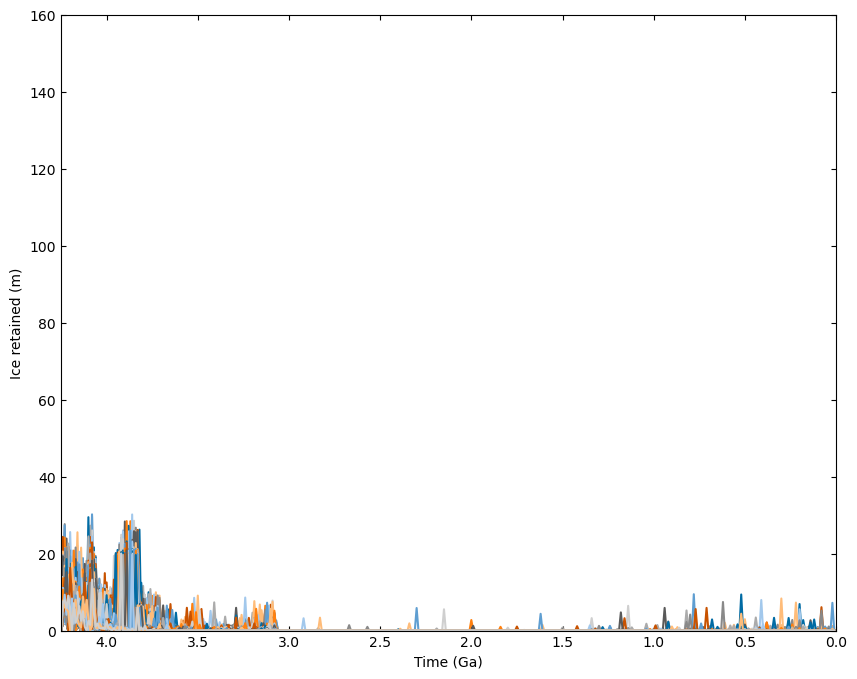
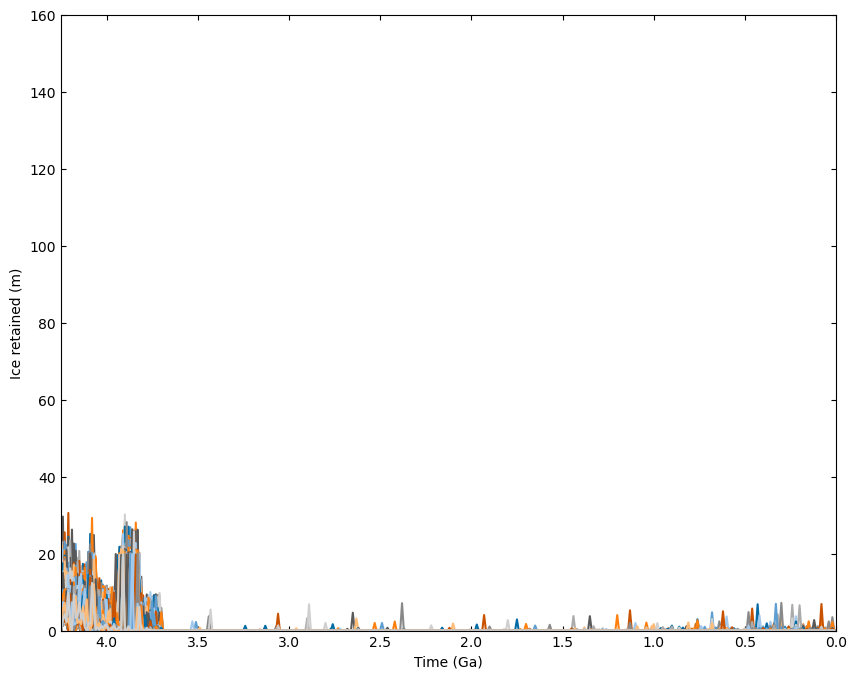
Fix volcanic ice NK mode

Changed region(s): [[0.0607, 0.7423, 0.6371, 0.9278], [0.6674, 0.866, 1.0, 0.9278]]

diff --git a/other_modules/ballistic_sed_depth_v3.py b/other_modules/ballistic_sed_depth_v3.py
@@ -1,0 +1,229 @@
+import numpy as np
+
+G_MOON = 1.624  # [m s^-2]
+# G_MOON = 9.8
+R_MOON = 1737 * 1e3  # [m]
+# R_MOON = 6356 * 1e3
+M = 1.96 # ± 0.15
+C = 0.022
+E = 0.00 # ± 0.09
+N = -0.14 # ± 0.03
+
+
+def m2km(x):
+    '''
+    It converts m to km. 
+    '''
+    return x/1000
+
+def sec_final_diam(d, range, M=1.96, C=0.022, E=0.00, N=-0.14):
+    '''
+    Returns secondary crater diameter given diameter of the primary crater and range away from the crater center. This function uses the generalized equation from Singer et al. 2020
+
+    Parameters
+    ----------
+    d (num or array): diameter of primary crater [m]
+    range (num or array): distance away from primary crater center[m]
+
+    Returns
+    -------
+    sec_final_diam [m]: final secondary crater diameter
+    
+    '''
+
+    d = m2km(d)
+    range = m2km(range)
+
+    a = C * (d**M)
+    b = E - (np.log(d) * N)
+    return ((a * (range**-b)) * 1000)
+
+def sec_final_diam_copern(range, d, d_copern=93000, M = 1.96, a = 1.2e2, b = -.68):
+    '''
+    Returns secondary crater diameter given diameter of the primary crater and range away from the crater center. This function uses the Copernius derived equation from Singer et al. 2020
+    The equation is then scaled by the primary crater. 
+
+    Parameters
+    ----------
+    d (num or array): diameter of primary crater [m]
+    range (num or array): distance away from primary crater center[m]
+
+    Returns
+    -------
+    sec_final_diam [m]: final secondary crater diameter
+    
+    '''
+    range = m2km(range)
+    d = m2km(d)
+    d_copern = m2km(d_copern)
+    return ((a * (d/d_copern)**M * (range**(b*(-np.log(d/d_copern))))) * 1000)
+
+def final2transient(diams, g=G_MOON, ds2c=18e3, gamma=1.25, eta=0.13):
+    """
+    Return transient crater diameters from final crater diams (Melosh 1989).
+
+    Parameters
+    ----------
+    diams (num or array): final crater diameters [m]
+    g (num): gravitational force of the target body [m s^-2]
+    rho_t (num): target density (kg m^-3)
+
+    Returns
+    -------
+    transient_diams (num or array): transient crater diameters [m]
+    """
+    # Scale simple to complex diameter (only if target is not Moon)
+    # ds2c = simple2complex_diam(g)  # [m]
+    diams = np.atleast_1d(diams)
+    # diams < simple2complex == diam/gamma, else use complex scaling
+    t_diams = np.copy(diams) / gamma
+    t_diams[diams > ds2c] = (1 / gamma) * (
+        diams[diams > ds2c] * ds2c ** eta
+    ) ** (1 / (1 + eta))
+    return t_diams
+
+def ballistic_spherical(theta, d, g=G_MOON, rp=R_MOON):
+    """
+    Return ballistic speed (v) given ballistic range (d) and gravity of planet (g).
+    Assumes perfectly spherical planet (Vickery, 1986).
+    
+    Parameters
+    ----------
+    d (num or array): ballistic range [m]
+    g (num): gravitational force of the target body [m s^-2]
+    theta (num): angle of impact [radians]
+    rp (num): radius of the target body [m]
+    
+    Returns
+    ------_
+    v (num or array): ballistic speed [m s^-1]   
+ 
+    """
+    tan_phi = np.tan(d / (2 * rp))
+    return np.sqrt((g * rp * tan_phi) / ((np.sin(theta) * np.cos(theta)) + (np.cos(theta)**2 * tan_phi)))
+
+
+
+def excav_depth(R_at, v):
+    '''
+    Returns the excavation depth of a secondary crater
+
+    Parameters
+    ----------
+    R_at (num): secondary transient apparent crater radius [m]
+    v (num): incoming impactor velocity [m/s]
+
+    Returns
+    -------
+    excav_depth (num): Excavation depth of a secondary crater [m]
+    '''
+    return .0134 * R_at * (v**0.38)
+
+def excav_depth_eff(R_at, r, d_ex, C_ex = 3.5):
+    '''
+    Returns the effective excavation depth of a secondary crater at radius r away from center of secondary crater
+
+    Parameters
+    ----------
+    R_at (num): secondary transient apparent crater radius [m]
+    r (num): Distance from secondary crater center [m]
+
+    Returns
+    -------
+    excav_depth (num): Effective excavation depth of a secondary crater [m]????
+    '''
+    if r <= R_at:
+        return C_ex * d_ex * (1 - (r/R_at)**2)
+    else:
+        # Raise some error here
+        return None 
+
+def ballistic_sed_depth(d, range, theta, N_E_bound = 'std', b_val = 'std' ):
+    '''
+    Returns the excavation depth of secondary craters being ballistically scoured 
+
+    Parameters
+    ----------
+    d (num or array): diameter of primary crater [m]
+    range (num or array): distance away from primary crater center [m]
+    theta (num): angle of impact [radians]
+
+    '''
+    # Choose which value within distribution to be used based on error bars. 
+    if N_E_bound == 'low_N_high_E_bound':
+        N = -0.17
+        E = 0.09
+    elif N_E_bound == 'high_N_low_E_bound':
+        N = -0.11
+        E = -0.09
+    elif N_E_bound == 'std':
+        N = -0.14 
+        E = 0.00 
+
+    if b_val == 'std':
+        b = -.68
+    elif b_val == 'low':
+        b = -.74
+    elif b_val =='high':
+        b = -.62
+
+
+    # Calcualte final secondary crater diameter:
+
+    # d_sec_final = sec_final_diam(d, range, N=N, E=E)
+    d_sec_final = sec_final_diam_copern(range, d, b=b)
+
+    # Convert final diameter to transient
+    d_sec_trans = final2transient(d_sec_final)
+
+
+    v = ballistic_spherical(np.deg2rad(theta), range)
+
+    d_ex = excav_depth(d_sec_trans/2,v)
+
+    d_eff = excav_depth_eff(d_sec_trans/2, 0, d_ex) 
+
+    # Multiply secondary transient crater diameter by .14 (Diameter/depth ratio from Singer et al. 2020)
+    # return d_sec_trans * .14
+    return d_eff
+
+
+
+# Plotting 
+excav_depths = []
+excav_depths2 = []
+excav_depths3 = []
+
+copern_diam = 93000 
+final_crater_diam = 26000 # [m]
+# final_crater_diam = 50000
+# final_crater_diam = 93000 # Orientale final diameter
+x = np.arange((final_crater_diam/2/1000),60)
+for i in x:
+    excav_depths.append(ballistic_sed_depth(final_crater_diam, i*1000, 45))
+    excav_depths2.append(ballistic_sed_depth(final_crater_diam, i*1000, 45, 'low_N_high_E_bound', 'low'))
+    excav_depths3.append(ballistic_sed_depth(final_crater_diam, i*1000, 45, 'high_N_low_E_bound', 'high'))
+
+# print(excav_depths)
+
+import matplotlib.pyplot as plt
+
+
+fig,ax = plt.subplots()
+ax.plot(x, excav_depths, label='Depth curve (based off data from Singer et al. 2020)')
+ax.plot(x, excav_depths2,'k--', label='Error bounds')
+ax.plot(x, excav_depths3,'k--')
+
+ax.set_xlabel('Distance from crater center [km]')
+ax.set_ylabel('Excavation depth [m]')
+ax.set_title('Excavation depth of secondary craters with distance from crater center\nPrimary crater diameter = 26 km')
+bunte_points_x = [28.5, 25.5, 23, 19, 16.5, 27, 36.5, 35, 32, 32, 27]
+bunte_points_y = [15, 52, 76, 34, 80, 47, 17, 28, 7, 21, 84]
+
+
+ax.plot(bunte_points_x, bunte_points_y, 'ro', label='Bunte Breccia depths [m]')
+
+ax.legend()
+plt.show()
+
+# ballistic_sed_depth(final_crater_diam, i*1000, 45)

diff --git a/moonpies/moonpies.py b/moonpies/moonpies.py
@@ -156,6 +156,7 @@ def read_volcanic_species(volcanic_csv, columns, species):
     df = df[["time", species]]
     df["time"] = df["time"] * 1e9  # [Gyr -> yr]
     df[species] = df[species] * 1e-3  # [g -> kg]
+    df = df.sort_values('time', ascending=False).reset_index(drop=True)
     return df
 
 
@@ -373,7 +374,12 @@ def get_volcanic_ice(time_arr, cfg):
     """
     if cfg.volc_mode == "NK":
         out = volcanic_ice_nk(
-            time_arr, cfg.volc_csv_in, cfg.volc_cols, cfg.volc_species
+            time_arr, 
+            cfg.timestep, 
+            cfg.volc_csv_in, 
+            cfg.volc_cols, 
+            cfg.volc_species,
+            cfg.dtype,
         )
     elif cfg.volc_mode == "Head":
         out = volcanic_ice_head(
@@ -391,25 +397,28 @@ def get_volcanic_ice(time_arr, cfg):
     else:
         raise ValueError(f"Invalid mode {cfg.mode}.")
     return out
+    
 
-
-def volcanic_ice_nk(time_arr, volc_csv, columns, species):
+def volcanic_ice_nk(time_arr, timestep, volc_csv, columns, species, dtype=None):
     """
     Return ice [units] deposited in each timestep with Needham & Kring (2017).
     """
     df_volc = read_volcanic_species(volc_csv, columns, species)
+    df_volc = df_volc[df_volc.time < time_arr.max()]
 
-    # Outer merge df_volc with time_arr to get df with all age timesteps
-    time_df = pd.DataFrame(time_arr, columns=["time"])
-    df = time_df.merge(df_volc, on="time", how="outer")
+    rounded_time = np.rint(time_arr / timestep)
+    rounded_ages = np.rint(df_volc.time.values / timestep)
+    time_idx = np.searchsorted(-rounded_time, -rounded_ages)
 
-    # Fill missing timesteps in df with linear interpolation across age
-    # BUG: should actually be resampling these values to distribute across age
-    df = df.sort_values("time", ascending=False).reset_index(drop=True)
-    df_interp = df.set_index("time").interpolate()
-
-    # Extract only relevant timesteps in time_arr and species column
-    volc_ice_mass = df_interp.values
+    # Compute volc ice mass at each time in time_arr
+    #   Divide each ice mass by time between timesteps in df_volc
+    volc_ice_mass = np.zeros(len(time_arr), dtype=dtype)
+    for i, t_idx in enumerate(time_idx[:-1]):
+        # Sum here in case more than one crater formed at t_idx
+        next_idx = time_idx[i+1]
+        time_diff = (time_arr[t_idx] - time_arr[next_idx]) / timestep
+        volc_ice_mass[t_idx:next_idx+1] = df_volc.iloc[i][species] / time_diff
+    
     return volc_ice_mass
 
 
@@ -1368,7 +1377,7 @@ def diam2len_potter(
     t_diam, v=20e3, rho_i=1300, rho_t=1500, g=1.62, dtype=None
 ):
     """
-    Return impactor length from final crater diam using Potter et al. (20XX)
+    Return impactor length from final crater diam using Potter et al. (2015)
     method.
 
     Note: Interpolates impactor lengths from the forward Potter impactor length

diff --git a/other_modules/solar_wind_v4.py b/other_modules/solar_wind_v4.py
@@ -1,0 +1,62 @@
+import numpy as np
+
+timestart = 4.25e9
+timeend = 0
+timestep = 10e6
+n = int((timestart - timeend) / timestep)
+
+TIME_ARR = np.linspace(timestart, timestep, n, dtype=np.float32)
+
+def sun_scalar(supply_rate, time_arr):
+    '''
+    Returns the inputted supply rate multipled by the solar luminosity factor given from Bachall, 2001. 
+    '''
+
+    # Bachall, 2001
+    sol_lum = np.array([0.677, 0.721, 0.733, 0.744, 0.754, 0.764,
+                    0.775, 0.786, 0.797, 0.808, 0.820, 0.831, 
+                    0.844, 0.856, 0.869, 0.882, 0.896, 0.910, 
+                    0.924, 0.939, 0.954, 0.970, 0.986, 1.0]) # solar luminance values through time w.r.t to current value
+                    
+
+    sol_t = np.linspace(4.6, 0, len(sol_lum)) * 1e9 # years
+
+    # Multiply supply rate by ones length of time array to get supply rate through entire model time. 
+    sol_wind_mass = np.ones(len(time_arr)) * supply_rate
+
+    # [::-1] reverses order of array since interp wants things increasing. We flip everything back later
+    interp_lum = np.interp(time_arr[::-1], sol_t[::-1], sol_lum[::-1])  
+
+    # Multiply flipped interpolated luminosities by the sol_wind_mass array to get scaled solar wind mass. 
+    sol_wind_mass_scaled = interp_lum[::-1] * sol_wind_mass
+
+    return sol_wind_mass_scaled
+
+def solar_wind(sol_wind_mode, time_arr = TIME_ARR, fys=True, ts = timestep):
+    '''
+    Returns array with time of kg of ice throughout the lunar surface. 
+    Does not account for movement of ice, only deposition given a supply rate from either Benna et al. 2019 or Hurely et al. 2017
+
+    For "Benna" mode, the water supply rate is 2 g/s, 
+    For Lucey-Hurley mode, the H2 supply rate is 30 g/s but is converted to water assuming 1 part per thousand is eventually converted to water after Lucey et al. 2020. 
+
+    If fys = True, the array is run through the faint young sun function which scales this value by the luminosity of the sun at all timesteps
+
+    '''
+    if sol_wind_mode == "Benna":
+        volatile_supply_rate = 2 * 1e-3 # [g/s] * [kg/g] = [kg/s]  |   Benna et al. 2019; Arnold, 1979; Housley et al. 1973 
+    elif sol_wind_mode == "Lucey-Hurley":
+        volatile_supply_rate = 30 * 1e-3 * 1e-3 # [g/s] * [kg/g] * [1/1000] [ppt] = [kg/s] |  Lucey et al. 2020, Hurley et al. 2017
+
+    supply_rate_ts = volatile_supply_rate * 60 * 60 * 24 * 365 * ts # convert to kg per timestep
+
+    # Faint young sun
+    if fys == True: 
+        solar_wind_ice = sun_scalar(supply_rate_ts, time_arr)
+    else:
+        solar_wind_ice = np.ones(len(time_arr)) * supply_rate_ts
+
+    
+    return solar_wind_ice
+
+solar_ice = solar_wind('Lucey-Hurley')

diff --git a/moonpies/ensemble_plot.py b/moonpies/ensemble_plot.py
@@ -19,7 +19,7 @@ if len(sys.argv) > 1:   # 1st cmd-line arg is path to custom cfg
 cfg = default_config.Cfg(**cfg_dict)
 if not data_dir:
     data_dir = Path(cfg.outpath).parent
-figname = 'ensemble_ice_{cfg.run_name}_{cfg.run_date}.png'
+figname = f'ensemble_ice_{cfg.run_name}_{cfg.run_date}.png'
 figpath = Path(cfg.figspath).joinpath(figname).as_posix()
 
 # Init plot
